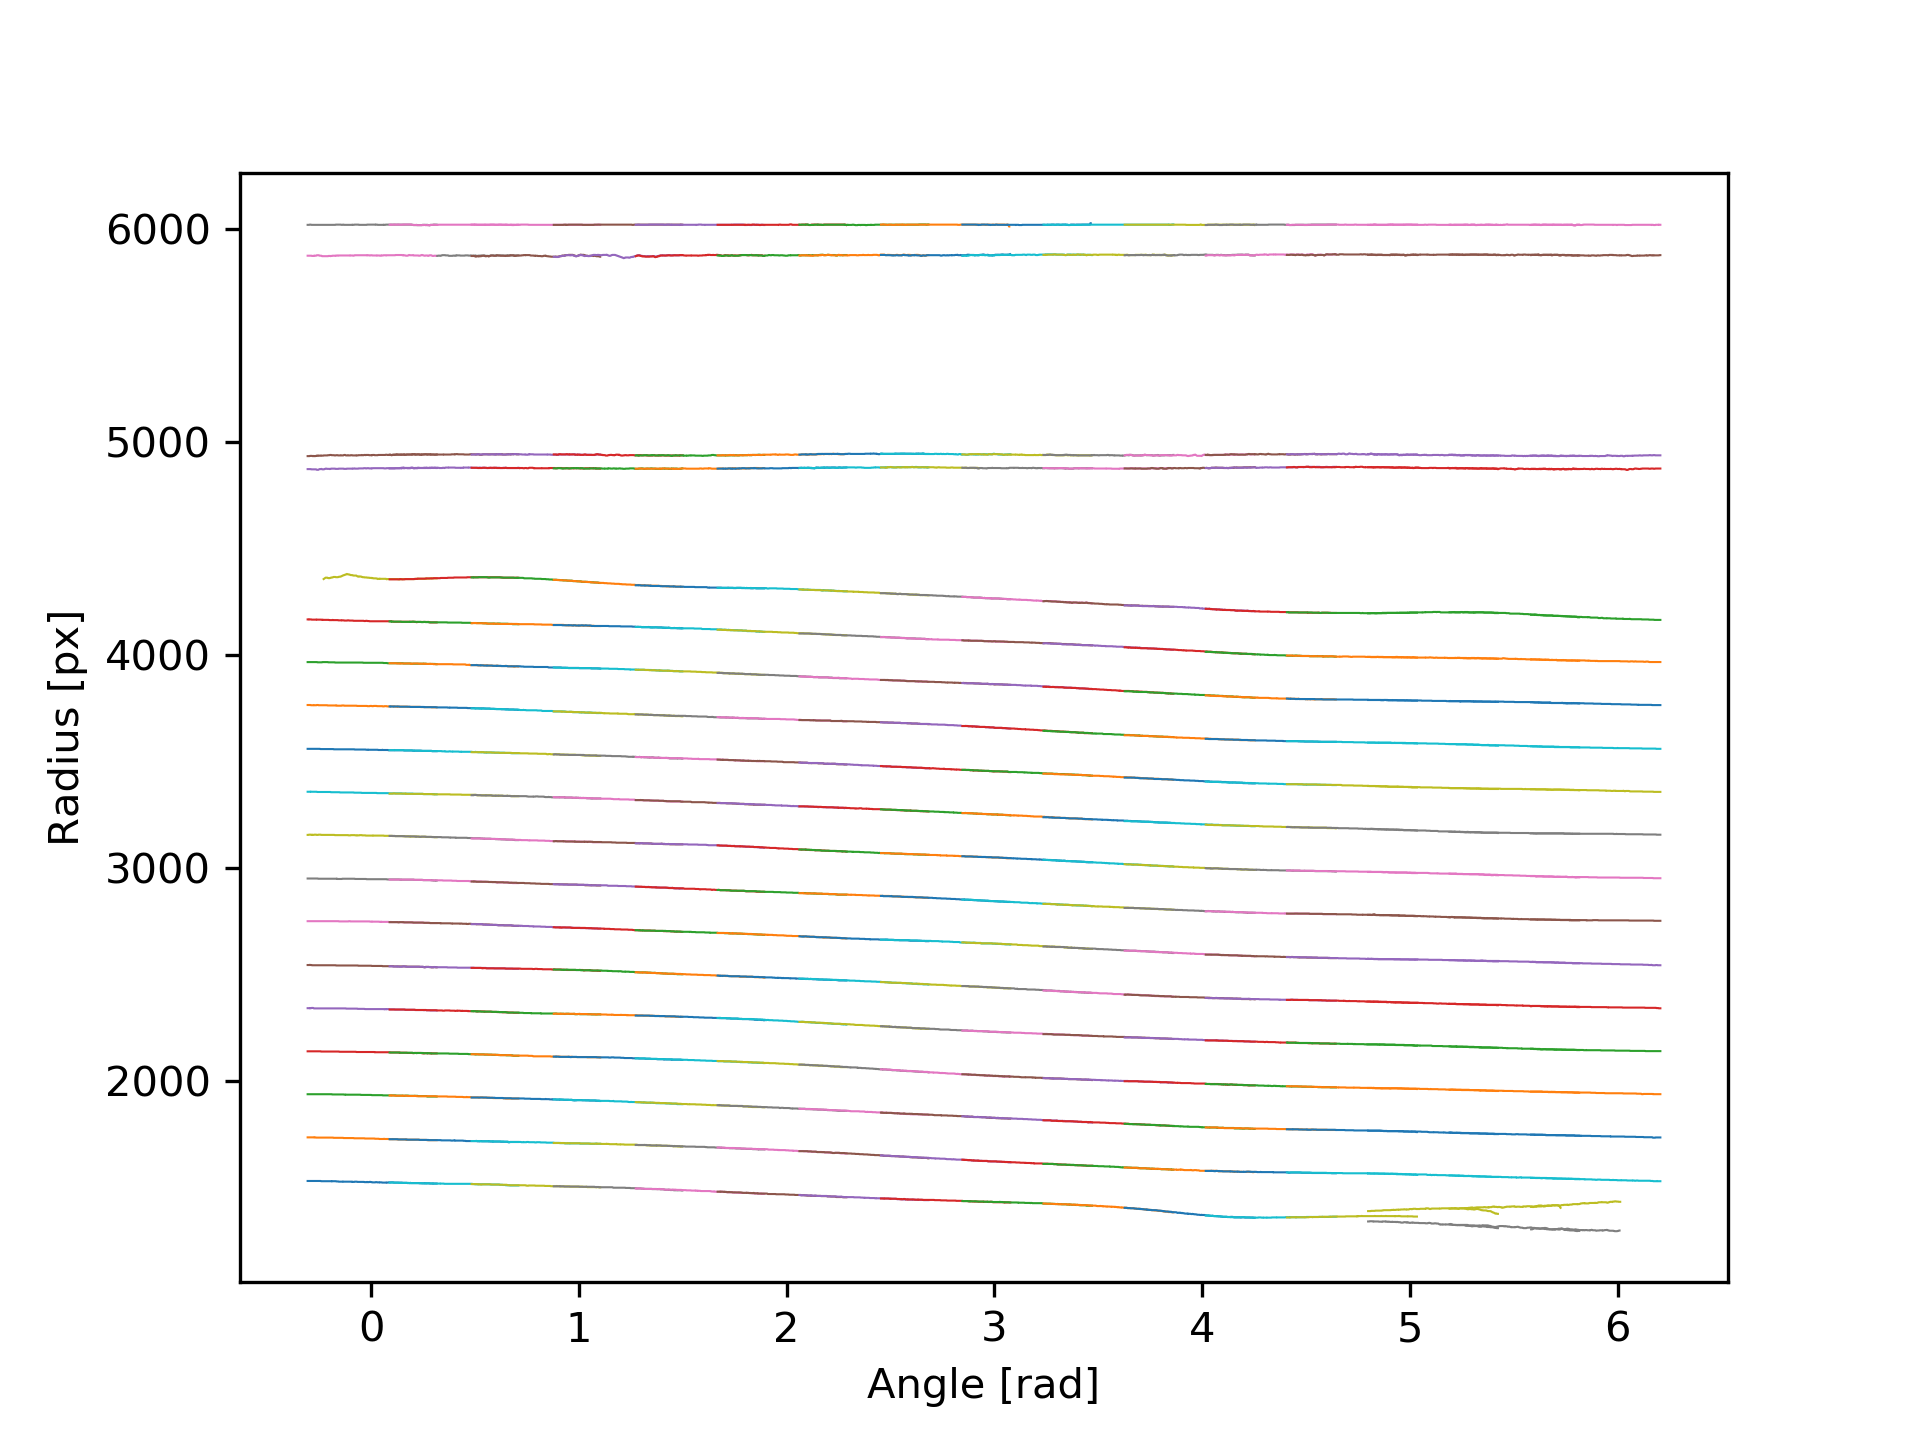
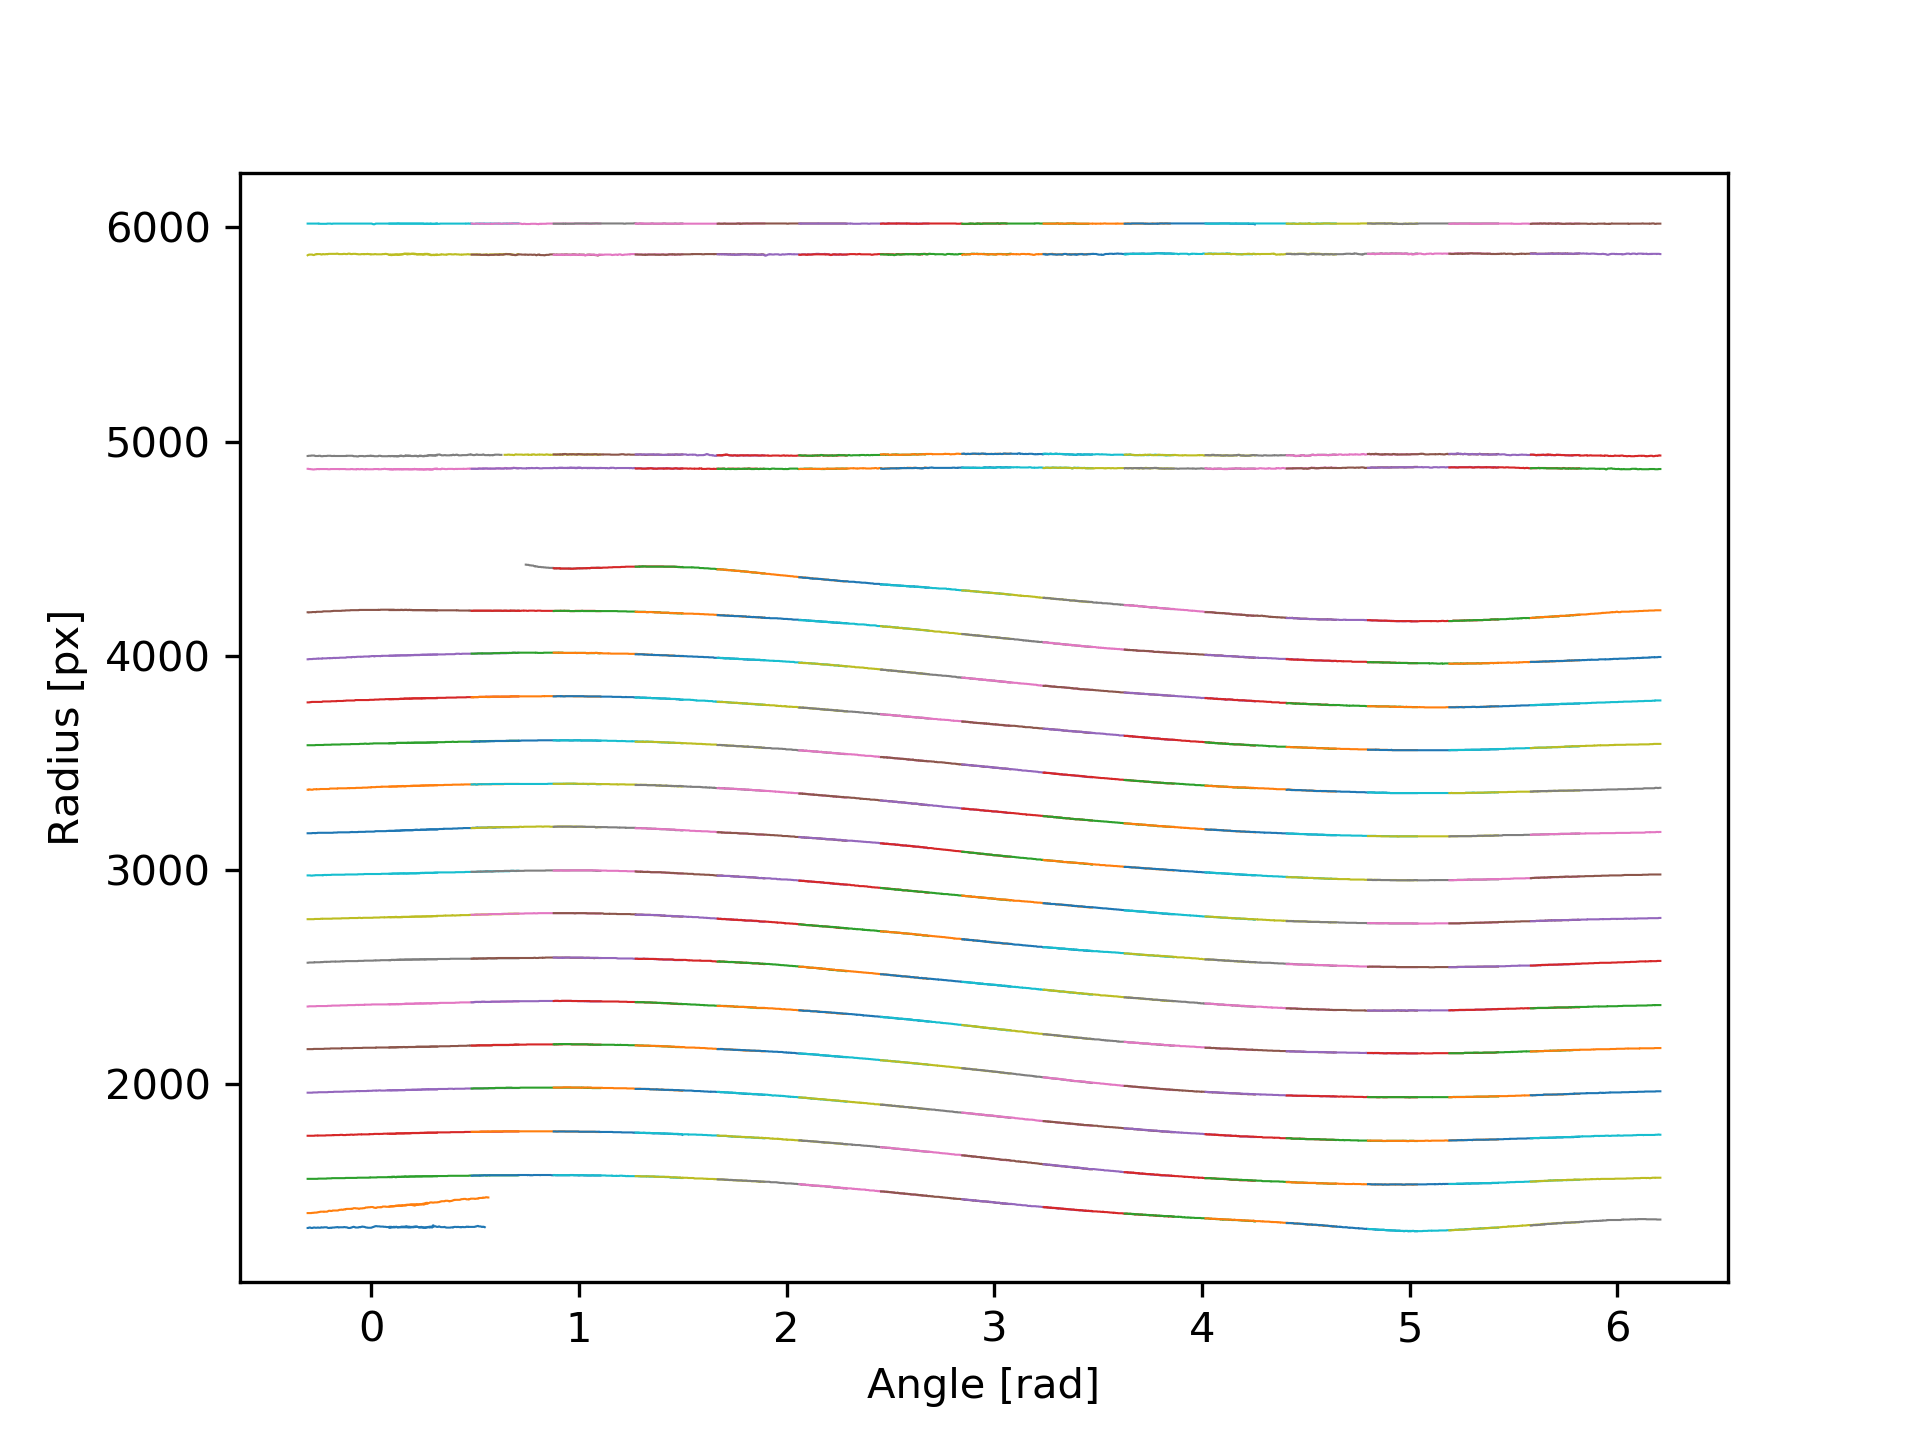
Band start slicing magic

diff --git a/sectorImage/core/stitcher.py b/sectorImage/core/stitcher.py
@@ -110,7 +110,7 @@ class Stitcher:
                 if plot:
                     ax.plot(phis, rs, lw=0.5)
             # segments.append(img_segs)
-        print(rstart, pstart, ampstart)
+        self.startAngle = pstart
         if plot:
             ax.set_xlabel('Angle [rad]')
             ax.set_ylabel('Radius [px]')
@@ -168,7 +168,10 @@ class Stitcher:
         left_starts = sorted([s for s in segments if s.imgNum == 0], key=operator.attrgetter('comR'))
         chirality = 1
         bands = []
+        Lbreak = 0
+
         for start in left_starts:
+            skipFlag = False
             combined = [start]
             connected_ids.append(start.identity)
             # for i in range(len(self.fns) - 1):
@@ -185,6 +188,9 @@ class Stitcher:
                 nearestPt = min(candidates_lp, key=lambda x: abs(x[1] - ep[1]))
                 if abs(nearestPt[1] - ep[1]) > 0.25 * pitch:
                     print('breaking left')
+                    Lbreak += 1
+                    if Lbreak > 1:
+                        skipFlag = True
                     break
                 nearest_idx = candidates_lp.index(nearestPt)
                 nearest_seg = candidates[nearest_idx]
@@ -192,15 +198,17 @@ class Stitcher:
                 connected_ids.append(nearest_seg.identity)
             bandR = np.empty(0)
             bandP = np.empty(0)
-            for c in combined:
-                bandR = np.append(bandR, c.rs)
-                bandP = np.append(bandP, c.phis)
-            order = np.argsort(bandP)
-            bandR = bandR[order]
-            bandP = bandP[order]
-            bands.append([bandP, bandR])
+            if not skipFlag:
+                for c in combined:
+                    bandR = np.append(bandR, c.rs)
+                    bandP = np.append(bandP, c.phis)
+                order = np.argsort(bandP)
+                bandR = bandR[order]
+                bandP = bandP[order]
+                bands.append([bandP, bandR])
         right_starts = sorted([s for s in segments if s.imgNum == len(self.fns) -
                                1 and s.identity not in connected_ids], key=operator.attrgetter('comR'))
+        Rbreak = 0
         for start in right_starts:
             combined = [start]
             connected_ids.append(start.identity)
@@ -217,6 +225,7 @@ class Stitcher:
                 nearestPt = min(candidates_ep, key=lambda x: abs(x[1] - lp[1]))
                 if abs(nearestPt[1] - lp[1]) > 0.25 * pitch:
                     print('breaking')
+                    Rbreak += 1
                     break
                 nearest_idx = candidates_ep.index(nearestPt)
                 nearest_seg = candidates[nearest_idx]
@@ -225,13 +234,14 @@ class Stitcher:
 
             bandR = np.empty(0)
             bandP = np.empty(0)
-            for c in combined:
-                bandR = np.append(bandR, c.rs)
-                bandP = np.append(bandP, c.phis)
-            order = np.argsort(bandP)
-            bandR = bandR[order]
-            bandP = bandP[order]
-            bands.append([bandP, bandR])
+            if Rbreak <= 1:
+                for c in combined:
+                    bandR = np.append(bandR, c.rs)
+                    bandP = np.append(bandP, c.phis)
+                order = np.argsort(bandP)
+                bandR = bandR[order]
+                bandP = bandP[order]
+                bands.append([bandP, bandR])
         if len(segments) != len(connected_ids):
             print(len(segments))
             print(len(connected_ids))
@@ -265,9 +275,15 @@ class Stitcher:
             compP = compP[order]
 
         compR = compR[order] * scale
+        # Cut band start
+        print(self.startAngle)
+        print(compP)
+        start_idx = np.argmax(chirality * compP[::chirality] > self.startAngle)
+        compP = compP[::chirality][start_idx:][::chirality]
+        compR = compR[::chirality][start_idx:][::chirality]
+        print(start_idx)
 
         deltas = [abs(r - compR[i + 1]) for i, r in enumerate(compR[:-1])]
-        print(max(deltas))
         compX = compR * np.cos(compP)
         compY = compR * np.sin(compP)
 

diff --git a/sectorImage/core/image.py b/sectorImage/core/image.py
@@ -305,14 +305,16 @@ class Image:
         # Gaussian Blur to remove fast features
 
         cv2.GaussianBlur(src=matrix, ksize=(0, 3), dst=proc, sigmaX=3, sigmaY=0)
+        cv2.GaussianBlur(src=matrix[:, :start_range], ksize=(3, 0), dst=start_search, sigmaX=0, sigmaY=3)
 
         # print('Convolving')
         # Convolving with Prewitt kernel in x-direction
         prewitt_kernel_x = np.array([[1, 0, -1], [1, 0, -1], [1, 0, -1]])
         width = 30
         prewitt_kernel_y = np.array([[1] * width, [0] * width, [-1] * width])
-        cv2.filter2D(src=proc[:, :start_range], kernel=prewitt_kernel_y, dst=start_search, ddepth=-1)
+        cv2.filter2D(src=start_search, kernel=prewitt_kernel_y, dst=start_search, ddepth=-1)
         cv2.filter2D(src=proc, kernel=prewitt_kernel_x, dst=proc, ddepth=-1)
+        np.absolute(start_search, out=start_search)
         start_amp = start_search.max()
         start_idx = np.unravel_index(start_search.argmax(), start_search.shape)
         start = (start_idx, start_amp)
@@ -360,7 +362,7 @@ class Image:
             print('Plotting')
             fig = plt.figure()
             ax = fig.add_subplot(111)
-            ax.imshow(proc)
+            ax.imshow(start_search)
             ax.set_aspect('auto')
             ax.set_xlabel('Radius [px]')
             ax.set_ylabel('Angle [idx]')

diff --git a/sectorImage/core/singleImage.py b/sectorImage/core/singleImage.py
@@ -40,7 +40,7 @@ class SingleImage:
 
         # self.coverage = self.img.thetaCovered
         # self.features, self.loss = self.img.detectFeatures(angularLines, plot=True)
-        self.features, self.start = self.img.detectFeatures(angularLines, plot=True)
+        self.features, self.start = self.img.detectFeatures(angularLines, plot=False)
 
         # self.angles = self.angles[int(self.loss / 2):int(-self.loss / 2)]
         if npz is not None:

diff --git a/sectorImage/main.py b/sectorImage/main.py
@@ -15,7 +15,7 @@ def main():
     t0 = time.time()
 
     #fns = ['img/src/cpt' + str(i) + '.jpg' for i in range(1, 23)]
-    # fns = ['../hardware/combined/cpt' + str(i) + '.jpg' for i in range(1, 17)]
+    fns = ['../hardware/combined/cpt' + str(i) + '.jpg' for i in range(1, 17)]
     # fns = ['../hardware/combined/cpt5.jpg']
     s = stitcher.Stitcher(fns, mpflag=False, env=Environment)
     s.loadImages()

diff --git a/applied/main.py b/applied/main.py
@@ -9,7 +9,7 @@ from pair import Pair
 
 
 def main():
-    s = Sequence(offsite=False)
+    s = Sequence(offsite=True)
     s.prime()
     pair = s.measure(n=16)
     pair.store()
